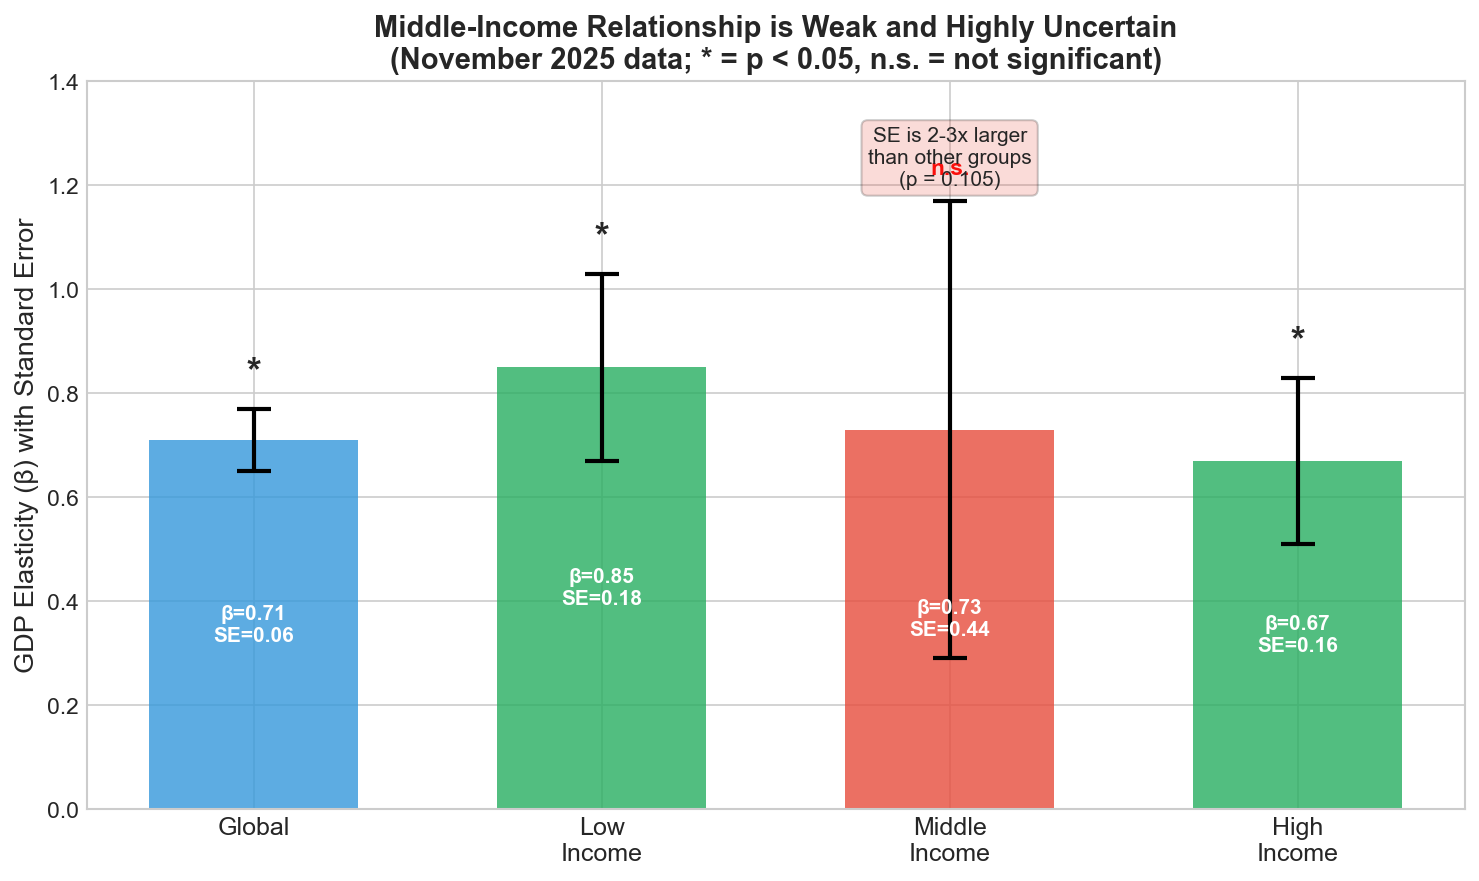
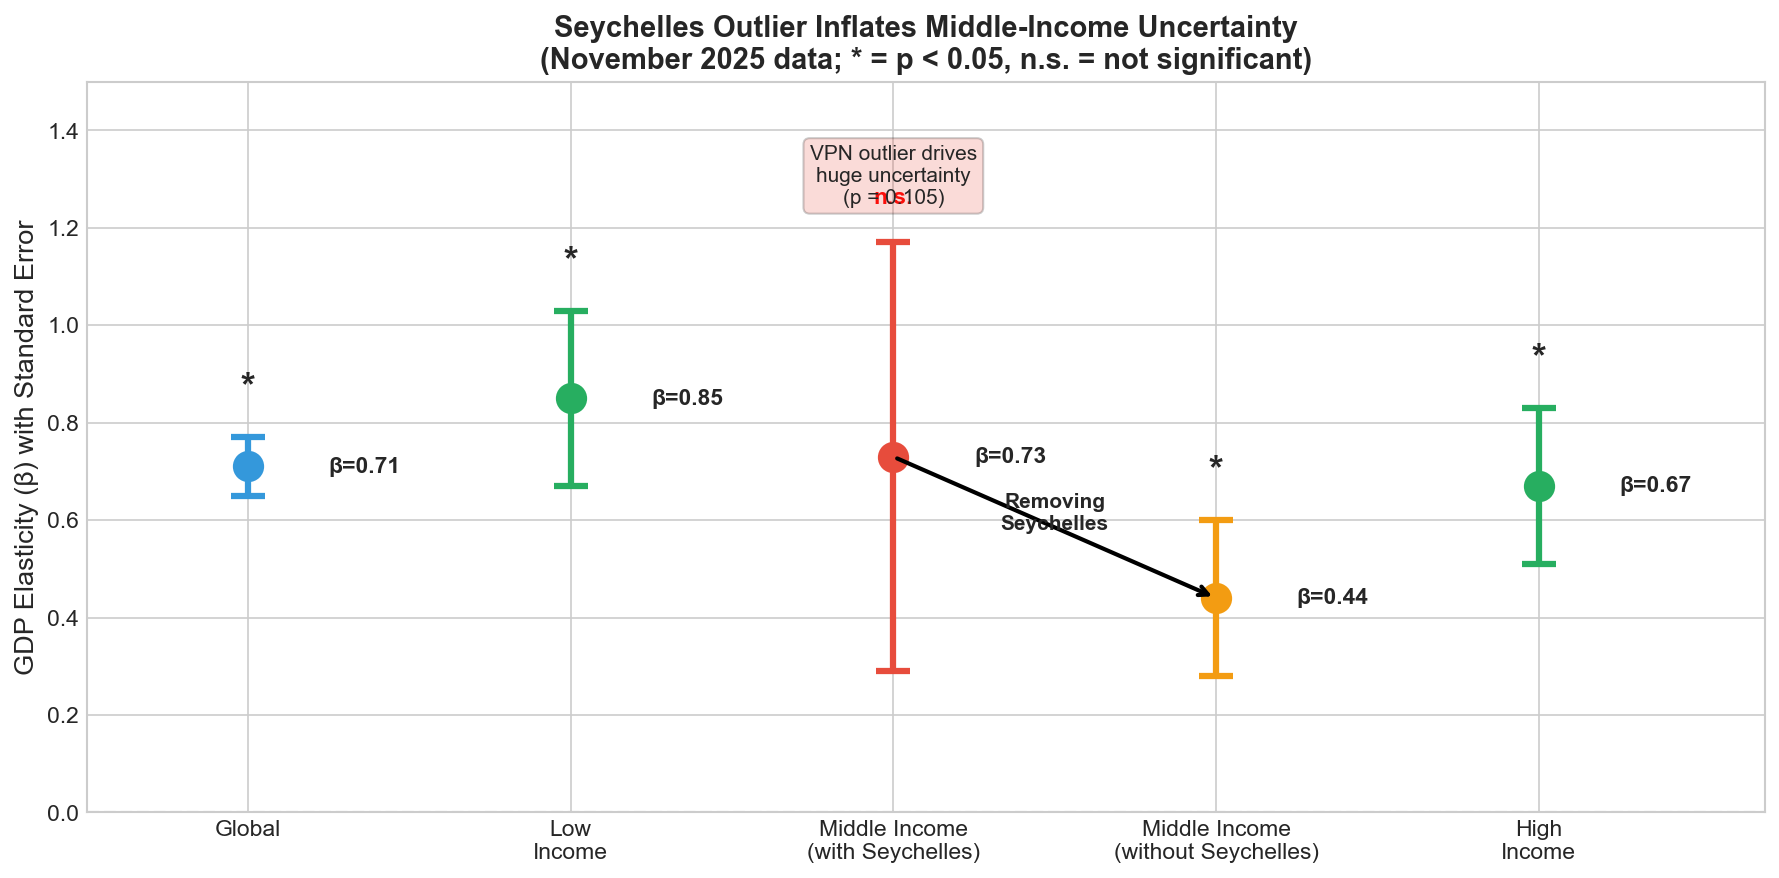
Update Figure 2 to dot plot, add beta to blog post
- Figure 2 now uses dots with error bars instead of bars
- Added β = 0.73 coefficient to middle-income uncertainty sentence
- Fixed README indentation

diff --git a/create_figures.py b/create_figures.py
@@ -100,48 +100,58 @@ plt.savefig('figures/fig1_their_view_vs_ours.png', dpi=150, bbox_inches='tight')
 plt.close()
 
 # =============================================================
-# FIGURE 2: Uncertainty by Income Group (November 2025 data)
+# FIGURE 2: Middle-Income With vs Without Seychelles (Dot Plot)
 # =============================================================
 
-fig, ax = plt.subplots(figsize=(10, 6))
+fig, ax = plt.subplots(figsize=(12, 6))
 
-# November 2025 data only
-groups = ['Global', 'Low\nIncome', 'Middle\nIncome', 'High\nIncome']
+# Groups: show middle income with and without Seychelles
+groups = ['Global', 'Low\nIncome', 'Middle Income\n(with Seychelles)', 'Middle Income\n(without Seychelles)', 'High\nIncome']
 x_pos = np.arange(len(groups))
 
-slopes = [0.71, 0.85, 0.73, 0.67]
-errors = [0.06, 0.18, 0.44, 0.16]
-significant = [True, True, False, True]  # Middle income NOT significant
+slopes = [0.71, 0.85, 0.73, 0.44, 0.67]
+errors = [0.06, 0.18, 0.44, 0.16, 0.16]
+significant = [True, True, False, True, True]  # Middle with Seychelles NOT significant
 
-# Colors: highlight middle income in orange
-colors = ['#3498db', '#27ae60', '#e74c3c', '#27ae60']
+# Colors: red for problematic (with Seychelles), others in different colors
+colors_dots = ['#3498db', '#27ae60', '#e74c3c', '#f39c12', '#27ae60']
 
-# Plot bars with error bars
-bars = ax.bar(x_pos, slopes, width=0.6, color=colors, alpha=0.8,
-              yerr=errors, capsize=8, error_kw={'linewidth': 2, 'capthick': 2})
+# Plot dots with error bars
+for i, (slope, err, color) in enumerate(zip(slopes, errors, colors_dots)):
+    ax.errorbar(x_pos[i], slope, yerr=err, fmt='o', markersize=14,
+                color=color, ecolor=color, elinewidth=3, capsize=8, capthick=3)
 
 # Add significance markers
 for i, (sig, slope, err) in enumerate(zip(significant, slopes, errors)):
     if sig:
-        ax.text(x_pos[i], slope + err + 0.05, '*', ha='center', fontsize=18, fontweight='bold')
+        ax.text(x_pos[i], slope + err + 0.08, '*', ha='center', fontsize=18, fontweight='bold')
     else:
-        ax.text(x_pos[i], slope + err + 0.05, 'n.s.', ha='center', fontsize=11, color='red', fontweight='bold')
+        ax.text(x_pos[i], slope + err + 0.08, 'n.s.', ha='center', fontsize=11, color='red', fontweight='bold')
 
-# Add value labels
+# Add value labels next to dots
 for i, (slope, err) in enumerate(zip(slopes, errors)):
-    ax.text(x_pos[i], slope/2, f'β={slope:.2f}\nSE={err:.2f}', ha='center', va='center',
-            fontsize=10, fontweight='bold', color='white')
+    ax.text(x_pos[i] + 0.25, slope, f'β={slope:.2f}', ha='left', va='center',
+            fontsize=11, fontweight='bold')
 
 ax.set_ylabel('GDP Elasticity (β) with Standard Error', fontsize=13)
-ax.set_title('Middle-Income Relationship is Weak and Highly Uncertain\n(November 2025 data; * = p < 0.05, n.s. = not significant)',
+ax.set_title('Seychelles Outlier Inflates Middle-Income Uncertainty\n(November 2025 data; * = p < 0.05, n.s. = not significant)',
              fontsize=14, fontweight='bold')
 ax.set_xticks(x_pos)
-ax.set_xticklabels(groups, fontsize=12)
-ax.set_ylim(0, 1.4)
+ax.set_xticklabels(groups, fontsize=11)
+ax.set_ylim(0, 1.5)
+ax.set_xlim(-0.5, 4.7)
 
-# Annotation for middle income
-ax.annotate('SE is 2-3x larger\nthan other groups\n(p = 0.105)',
-            xy=(2, 1.2), ha='center', fontsize=10,
+# Add horizontal line at zero for reference
+ax.axhline(y=0, color='gray', linestyle='--', alpha=0.5)
+
+# Add arrow showing the difference
+ax.annotate('', xy=(3, 0.44), xytext=(2, 0.73),
+            arrowprops=dict(arrowstyle='->', color='black', lw=2))
+ax.text(2.5, 0.58, 'Removing\nSeychelles', ha='center', fontsize=10, fontweight='bold')
+
+# Annotation for middle income with Seychelles
+ax.annotate('VPN outlier drives\nhuge uncertainty\n(p = 0.105)',
+            xy=(2, 1.25), ha='center', fontsize=10,
             bbox=dict(boxstyle='round', facecolor='#e74c3c', alpha=0.2))
 
 plt.tight_layout()

diff --git a/BLOG_POST.md b/BLOG_POST.md
@@ -23,7 +23,7 @@ The head of economics at Anthropic, Peter McCrory, told the [*Financial Times*](
 
 2) Anthropic's AI Usage Index (AUI)[^1] measures **relative usage intensity** — how countries rank against each other in their usage of Claude — not absolute adoption levels. The estimated regression coefficients from the GDP per capita-AI Adoption relationship can only tell us that income levels predicts that certain countries use Claude more *relative to other countries*, but says nothing about whether that usage is economically meaningful at all. A country could rank highly on AUI while still having negligible actual AI adoption.
 
-3) *Moreover, as we focus on in this note, Anthropic's data when analyzed properly shows more reason to predict convergence in AI adoption*: since **middle-income countries are adopting AI more than what their income level predicts**, when allowing for GDP per capita's impact on AI adoption to vary by a country's initial income level. In the November 2025 data, the middle-income relationship is highly uncertain (SE = 0.44, p = 0.105) with a very poor fit (R² = 0.07) — GDP per capita explains almost nothing about AI adoption for these countries.
+3) *Moreover, as we focus on in this note, Anthropic's data when analyzed properly shows more reason to predict convergence in AI adoption*: since **middle-income countries are adopting AI more than what their income level predicts**, when allowing for GDP per capita's impact on AI adoption to vary by a country's initial income level. In the November 2025 data, the middle-income relationship is highly uncertain (β = 0.73, SE = 0.44, p = 0.105) with a very poor fit (R² = 0.07) — GDP per capita explains almost nothing about AI adoption for these countries.
 
 ### Do not pool data: all countries are not alike
 Anthropic uses GDP per capita to predict AI adoption. They "pool" across all countries, meaning they assume the relationship between how income level impacts AI adoption is the same everywhere — a single parameter represents the strength and nature of this relationship and applies equally to Nigeria and Norway alike. 

diff --git a/README.md b/README.md
@@ -25,8 +25,7 @@ The [*Financial Times*](https://www.ft.com/content/3ad44e30-c738-4356-91fb-8bb23
 
 Using Anthropic's own data (both the November 2025 data from their January 2026 report and an earlier August 2025 release) we estimate separate regression estimates for different country groups and find that:
 
-1. **For middle-income countries, GDP does not meaningfully predict AI adoption** — in the November 2025 data (used in their report), the relationship is not statistically meaningful (β = 0.73, SE = 0.44, p = 0.105); in the August 2025 data, the relationship is weak (β = 0.44, SE = 0.18, p = 0.019)
-   - **The relationship is weak and highly uncertain** — GDP per capita explains only 7-14% of the variation (R²), and the coefficient swings dramatically between periods (0.44 to 0.73) while remaining statistically weak or insignificant (N = 38 countries in each period)
+1. **For middle-income countries, GDP does not meaningfully predict AI adoption** — in the November 2025 data (used in their report), the relationship is not statistically meaningful (β = 0.73, SE = 0.44, p = 0.105); in the August 2025 data, the relationship is weak (β = 0.44, SE = 0.18, p = 0.019). The relationship is weak and highly uncertain — GDP per capita explains only 7-14% of the variation (R²), and the coefficient swings dramatically between periods (0.44 to 0.73) while remaining statistically weak or insignificant (N = 38 countries in each period)
 2. **Middle-income countries adopt AI beyond what their income predicts** — education, infrastructure, and policy may drive adoption more than income
 3. **No evidence supporting divergence is provided** — their single cross-sectional estimate does not imply growing divergence in AI adoption between countries (or resulting GDP growth). If anything, for middle-income countries, the data supports convergence in AI adoption.
 
